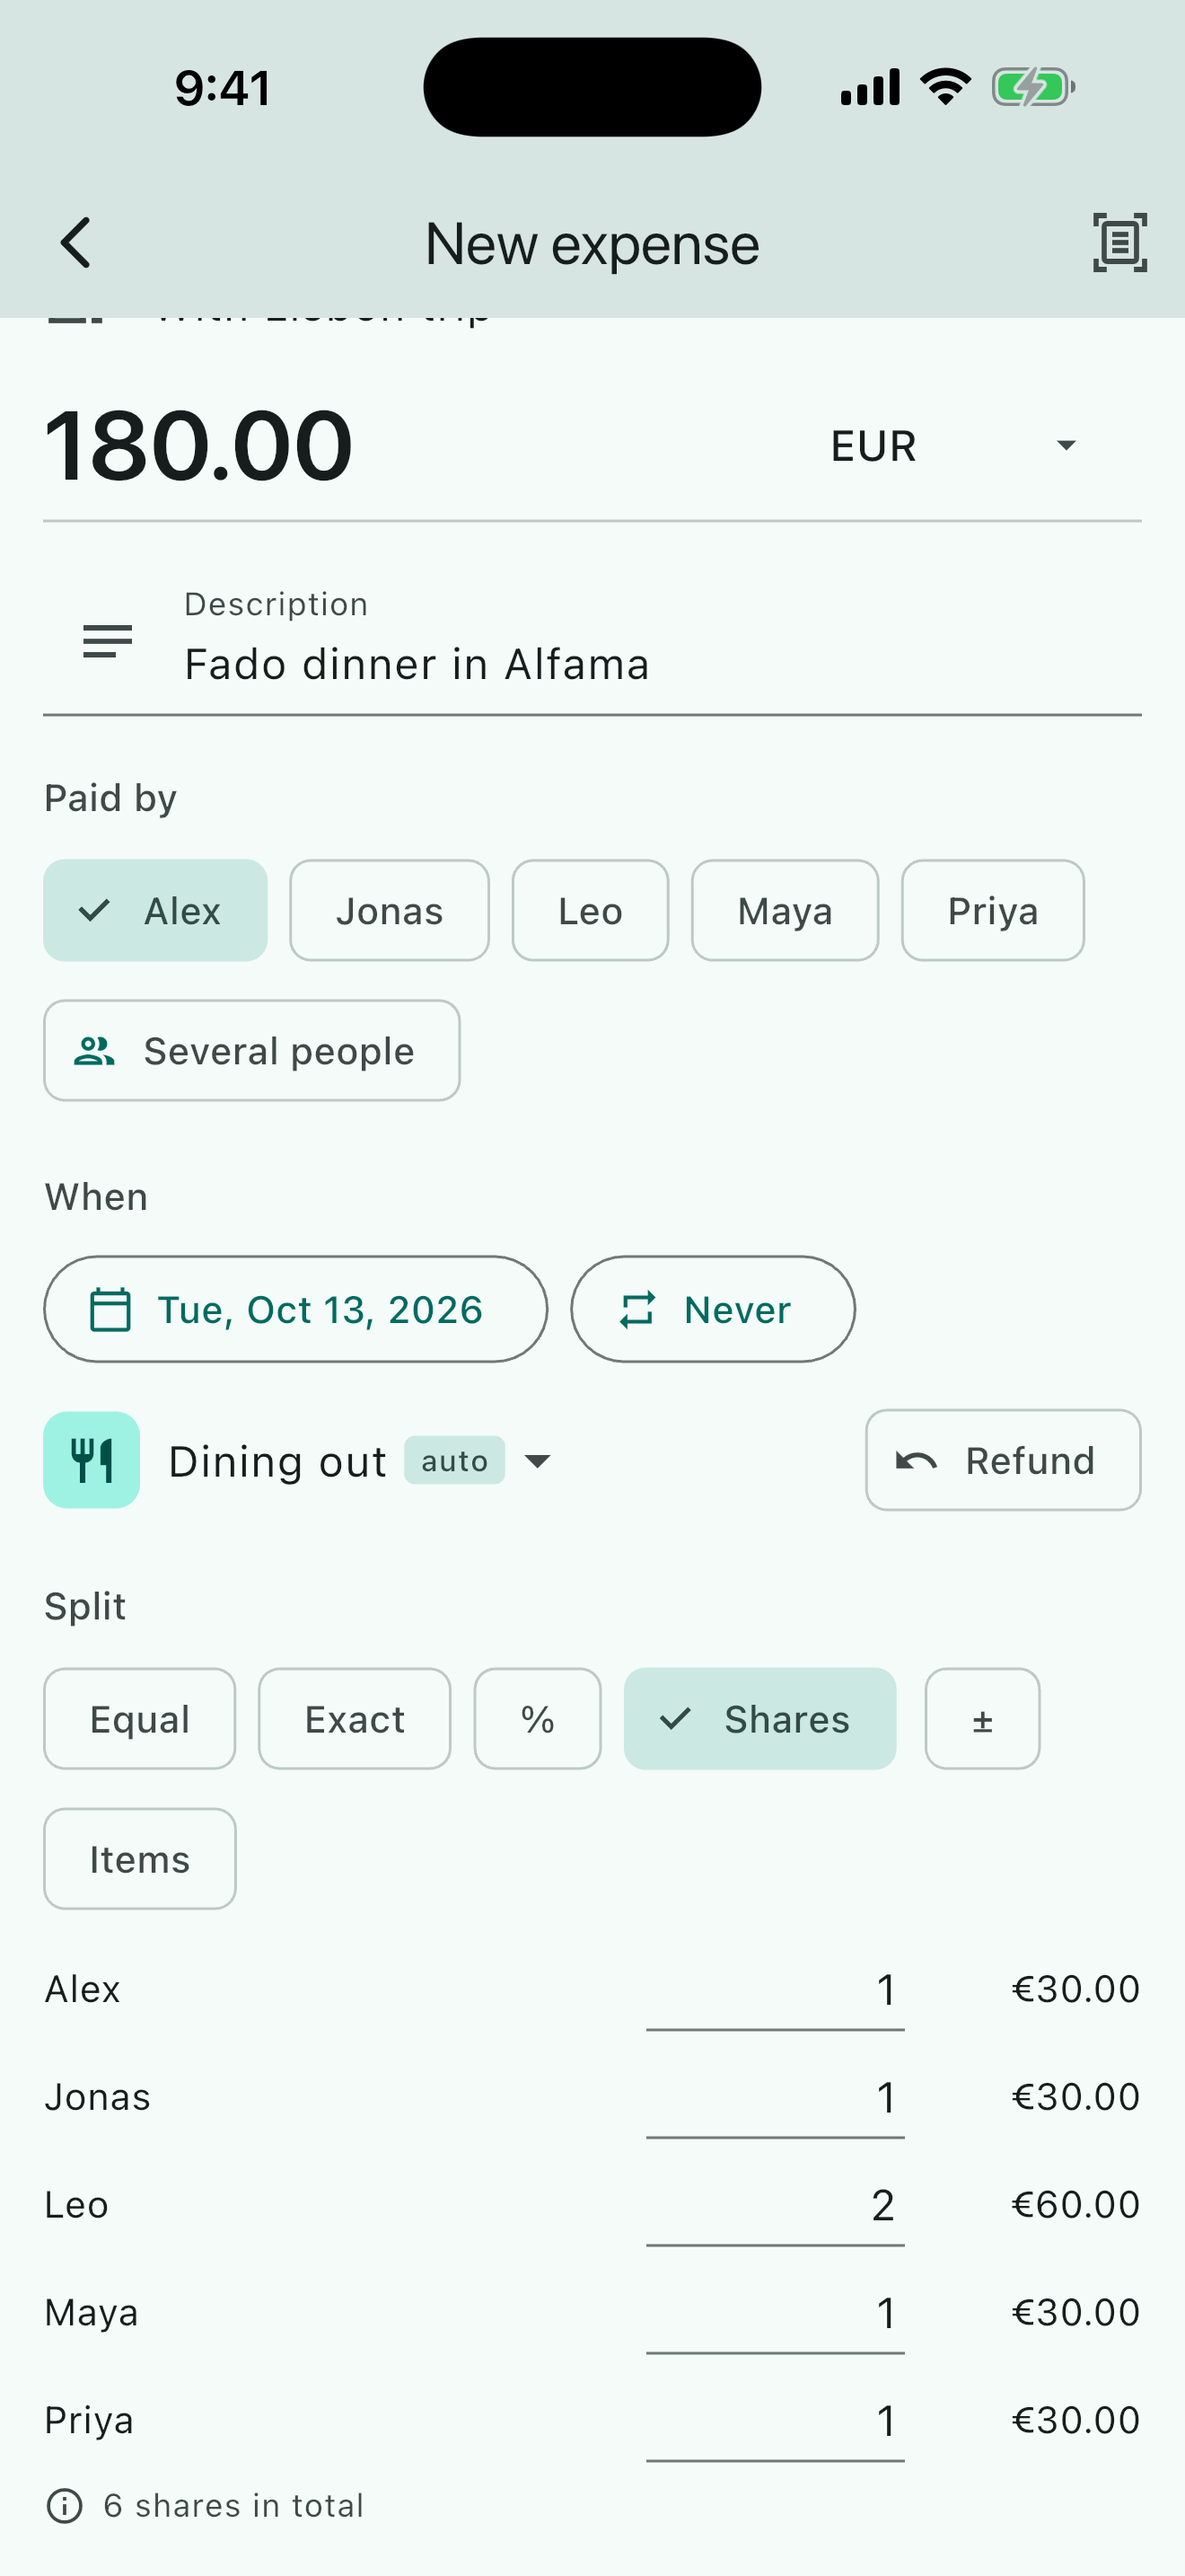
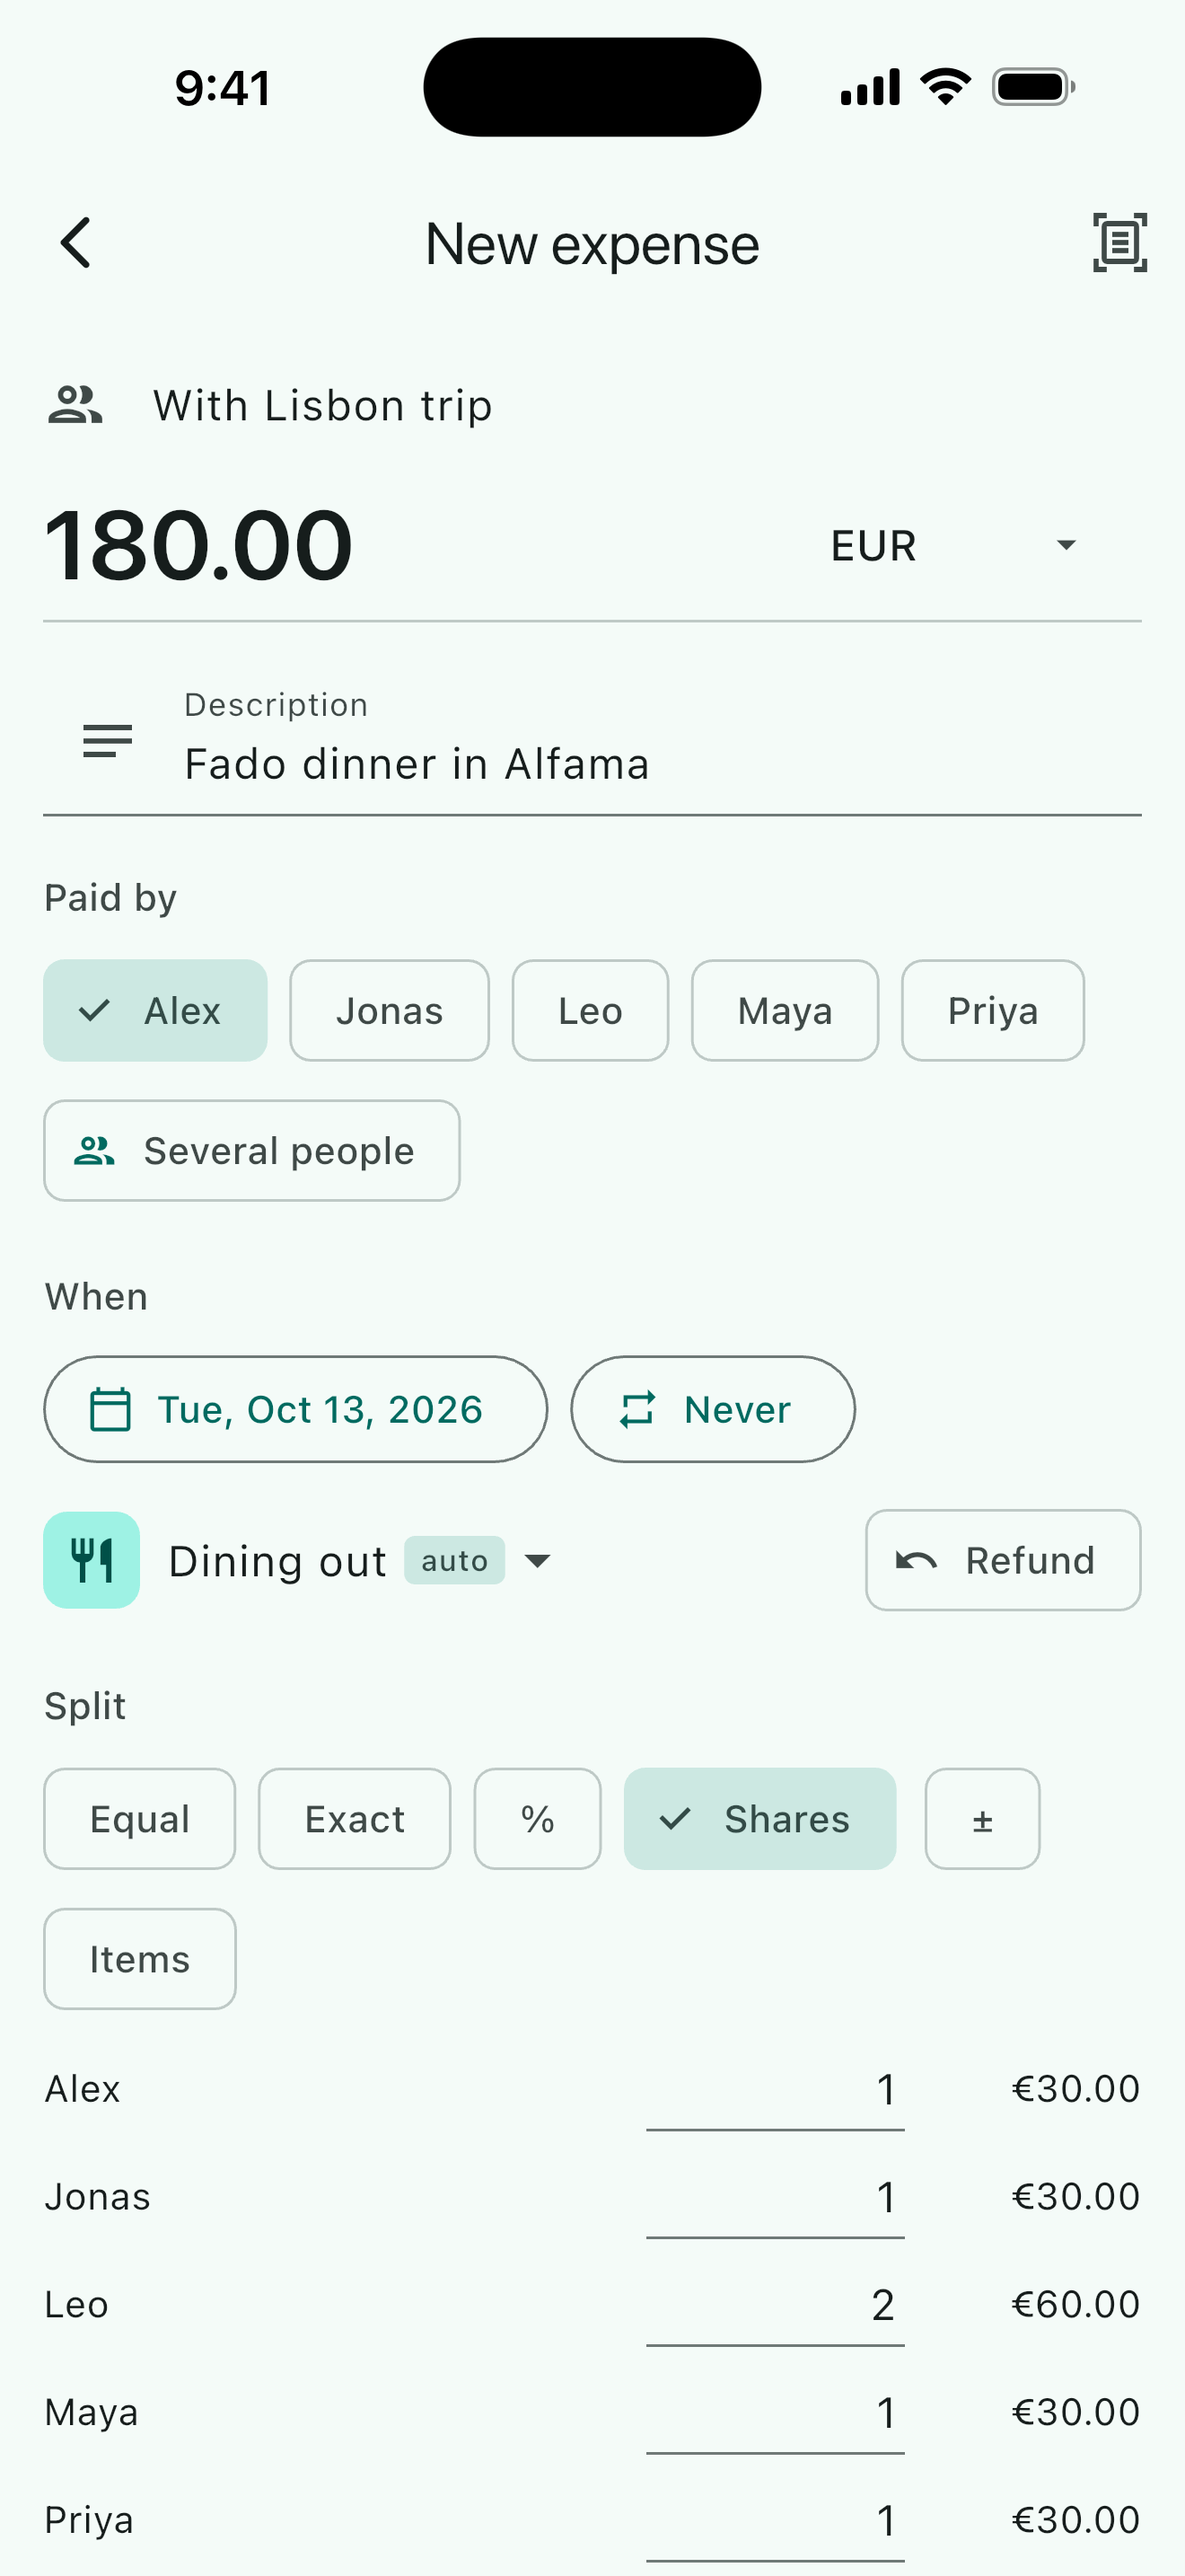
docs: iPhone-only App Store screenshots, cleaner add-expense and items frames
Release 1.0 ships iPhone-only, so the iPad 13" set is removed and the
scripts and notes no longer mention it; iPad screenshots come back with
a tablet layout.

All eight iPhone frames are retaken with a discharging status bar (full
battery, no charging bolt). The new-expense frame now starts at the top
of the form (amount, description, payer and the whole Shares split),
and the Items frame starts at the top of the list: five whole line
cards, four of them assigned to specific people. sim.sh gains a scroll
command that jumps the current screen's list to an exact offset.

diff --git a/docs/store/listing.md b/docs/store/listing.md
@@ -2,7 +2,7 @@
 
 Version 1.0.0 (the first store release) with everything from Phases 1–11. English only; the app itself has 13 languages.
 
-Screenshots: `ios-6.9/` (iPhone 6.9", 1320×2868) and `ipad-13/` (iPad 13", 2064×2752), light, retaken on 2026-10-13 from current main (see the notes at the bottom).
+Screenshots: `ios-6.9/` (iPhone 6.9", 1320×2868), light, retaken on 2026-10-13 from current main (see the notes at the bottom). 1.0 is iPhone-only, so there is no iPad set.
 
 ---
 
@@ -263,18 +263,18 @@ Security practices: data encrypted in transit; users can request deletion; no in
 - Email is off at launch (no `EVENSIES_SMTP_HOST`): the app hides email sign-in, summaries and email invites. Turning it on later needs no app update; update the review notes and the processors line then.
 
 ## Notes on the screenshots
-Captured 2026-10-13 from a debug build of current main (`05c61be`, Phases 1–11) against a local server with made-up demo data (Alex with Maya, Jonas, Priya and Leo). Light mode, English (en_US), status bar 9:41 / full battery / full signal, no debug banner and no dev-only UI in any frame. How to redo them: `ios-6.9/README.txt` and the scripts in `ios-shots/`.
+Captured 2026-10-13 from a debug build of current main (`05c61be`, Phases 1–11) against a local server with made-up demo data (Alex with Maya, Jonas, Priya and Leo). Light mode, English (en_US), status bar 9:41 / full battery, not charging / full signal, no debug banner and no dev-only UI in any frame. How to redo them: `ios-6.9/README.txt` and the scripts in `ios-shots/`.
 
-`ios-6.9/` (iPhone 17 Pro Max, 1320×2868) and `ipad-13/` (iPad Pro 13-inch (M5), 2064×2752) have the same eight screens with the same data, in this order:
-1. `01-groups.png` — Groups: total card (You are owed €585.76, You owe €41.11), Berlin weekend, Flat 3B and Lisbon trip with each group's balance, one group under Settled up
+`ios-6.9/` (iPhone 17 Pro Max, 1320×2868) has eight screens, in this order:
+1. `01-groups.png` — Groups: total card (You are owed €585.76, You owe €41.10), Berlin weekend, Flat 3B and Lisbon trip with each group's balance, one group under Settled up
 2. `02-expenses.png` — Lisbon trip → Expenses: date-grouped, category icons, lent/borrowed lines and a recorded payment
 3. `03-balances.png` — Lisbon trip → Balances: bars per person and "Priya should pay next"
 4. `04-settle-up.png` — Settle up: four transfers; on yours, "I've sent it" and the PayPal and Wise pay buttons
-5. `05-add-expense.png` — New expense split by Shares (Leo has 2 shares), category guessed from the description
+5. `05-add-expense.png` — New expense from the top: amount, description, payer, and the split by Shares (Leo has 2 shares); category guessed from the description
 6. `06-friends.png` — Friends tab: one balance per person across groups and non-group expenses
 7. `07-activity.png` — Activity across all groups and friends
-8. `08-items.png` — Items split of a restaurant bill: people per line, tip, each person's share (the iPhone frame shows the bottom half: last lines, totals and each person)
+8. `08-items.png` — Items split of a restaurant bill, from the top: the octopus is Alex's, the bacalhau Maya's, the sardines Jonas and Priya's, the clams Leo's, the wine everyone's (the totals and each person's share are further down and don't fit with whole cards)
 
 - Receipt scanning itself is not shown: the system photo picker can't be driven in the simulator without taps. The Items screen in frame 8 is the one a scan opens.
 - No dark-mode set any more (the old `ios-6.9-dark/` was removed).
-- On the iPad the app uses the phone layout at full width, so the iPad frames have wide empty areas.
+- No iPad screenshots: 1.0 ships iPhone-only. They come back with a tablet layout.
